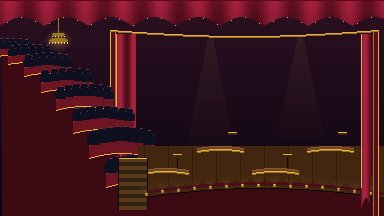
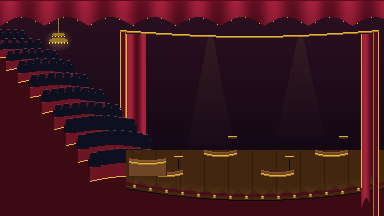
feat: full-width crowd, crowd-scale players, podium built into the stage
- crowd: ten-row bowl extended to the full house and shifted left, hard
  against the wall and down toward the aisle, so the seating fills its
  area instead of clumping by the stage.
- players and conductor shrunk to about a front-row audience member, so
  they read as people on the stage rather than looming over the house.
- stage: the conductor's podium is now a raised wooden dais that is part
  of the stage (same wood, gold nosing, no detached striped block), and
  the apron arc curves the other way, dipping toward the audience at the
  centre; the tier ledges echo the same curve.
- title returned to the top-left of the stage box, just on screen.

Verified cold, lit, and at 390x844 via headless screenshots.

diff --git a/src/styles/global.css b/src/styles/global.css
@@ -82,19 +82,15 @@ header nav {
   object-fit: fill; /* stage matches the art's aspect, so no distortion */
 }
 
-/* The show title hangs inside the proscenium opening (the framed "main view"
-   rectangle), centred under the arch in the dark air above the players, rather
-   than floating in the top-left corner over the house. */
+/* The show title sits in the top-left of the stage box, just on screen. */
 .show-title {
   position: absolute;
-  top: 17%;
-  left: 63%;
-  transform: translateX(-50%);
+  top: 3%;
+  left: 3%;
   margin: 0;
   z-index: 6;
   font-size: clamp(0.7rem, 2.2vw, 1.6rem);
   color: #fff;
-  text-align: center;
   text-shadow: var(--pixel) var(--pixel) 0 var(--line);
   letter-spacing: 1px;
   pointer-events: none;
